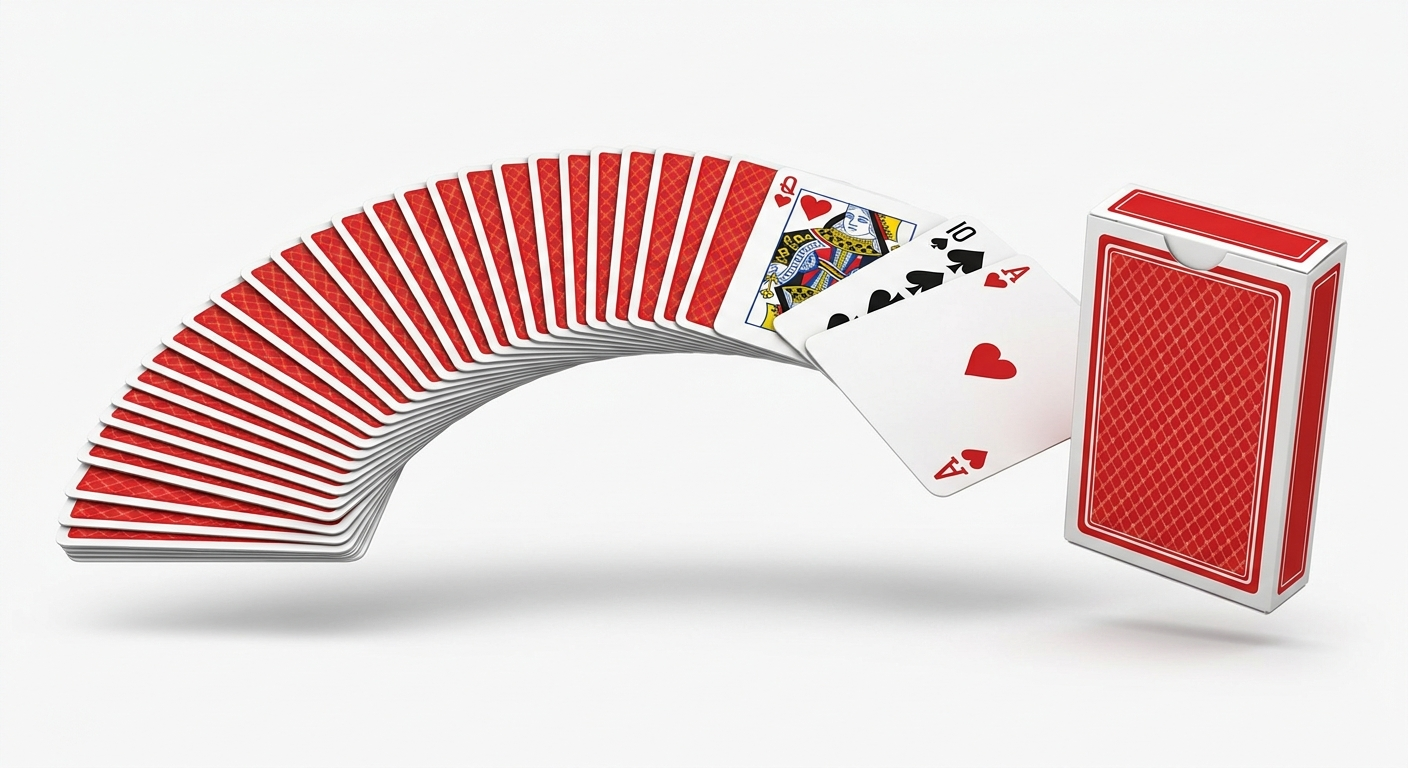
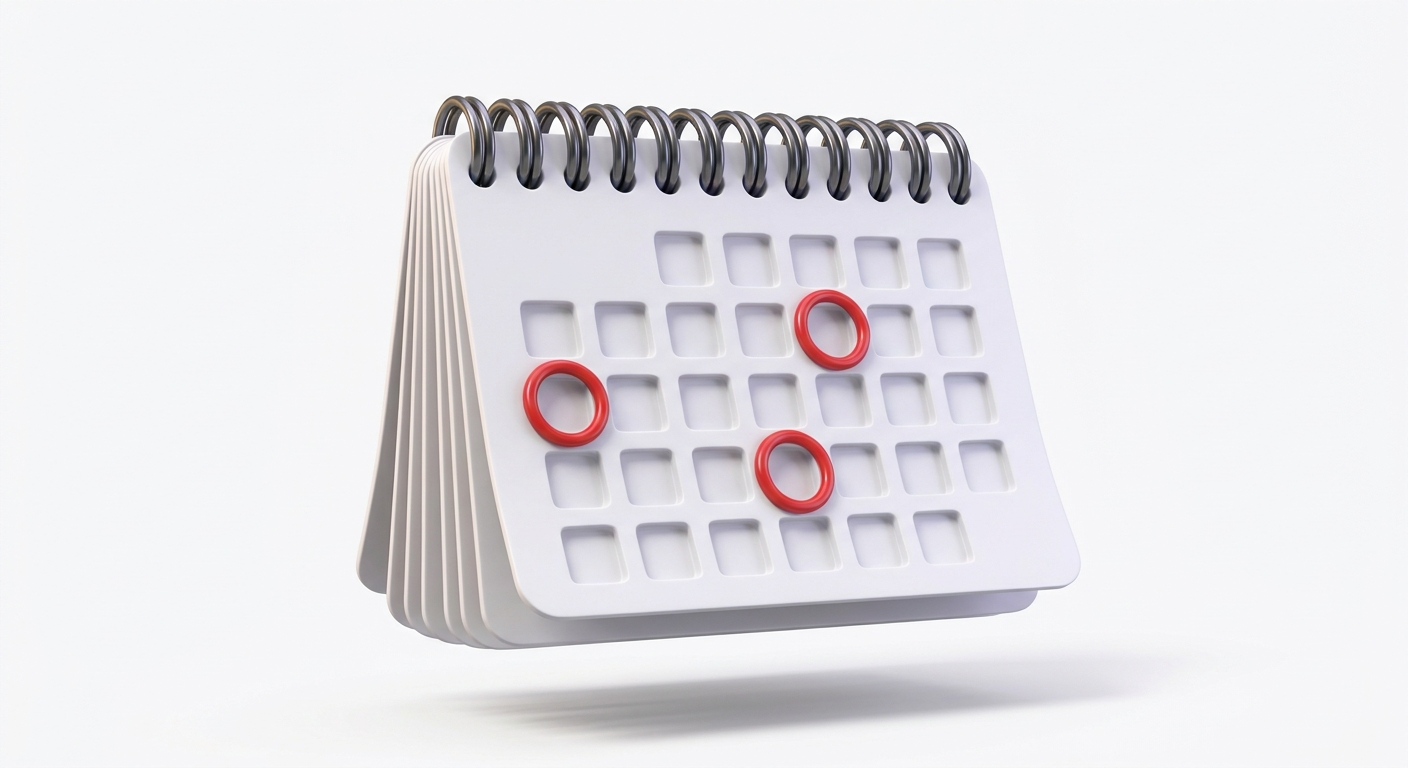
Nya bilder for 52, 72, 84, 85 och 89
Kalender och golf ersatter kortmotiven som krockade med blackjack.
Thomas, Oskar och Malin genererade i projektstilen med foto som
likhetsreferens. Cache-versionen bumpas sa telefoner hamtar om
bilderna utan ominstallation.

diff --git a/sw.js b/sw.js
@@ -1,5 +1,5 @@
 // Natverk forst for kod (sa uppdateringar nar fram), cache forst for bilder.
-const CACHE = 'sifferkort-v2';
+const CACHE = 'sifferkort-v3';
 
 self.addEventListener('install', (e) => {
   self.skipWaiting();
